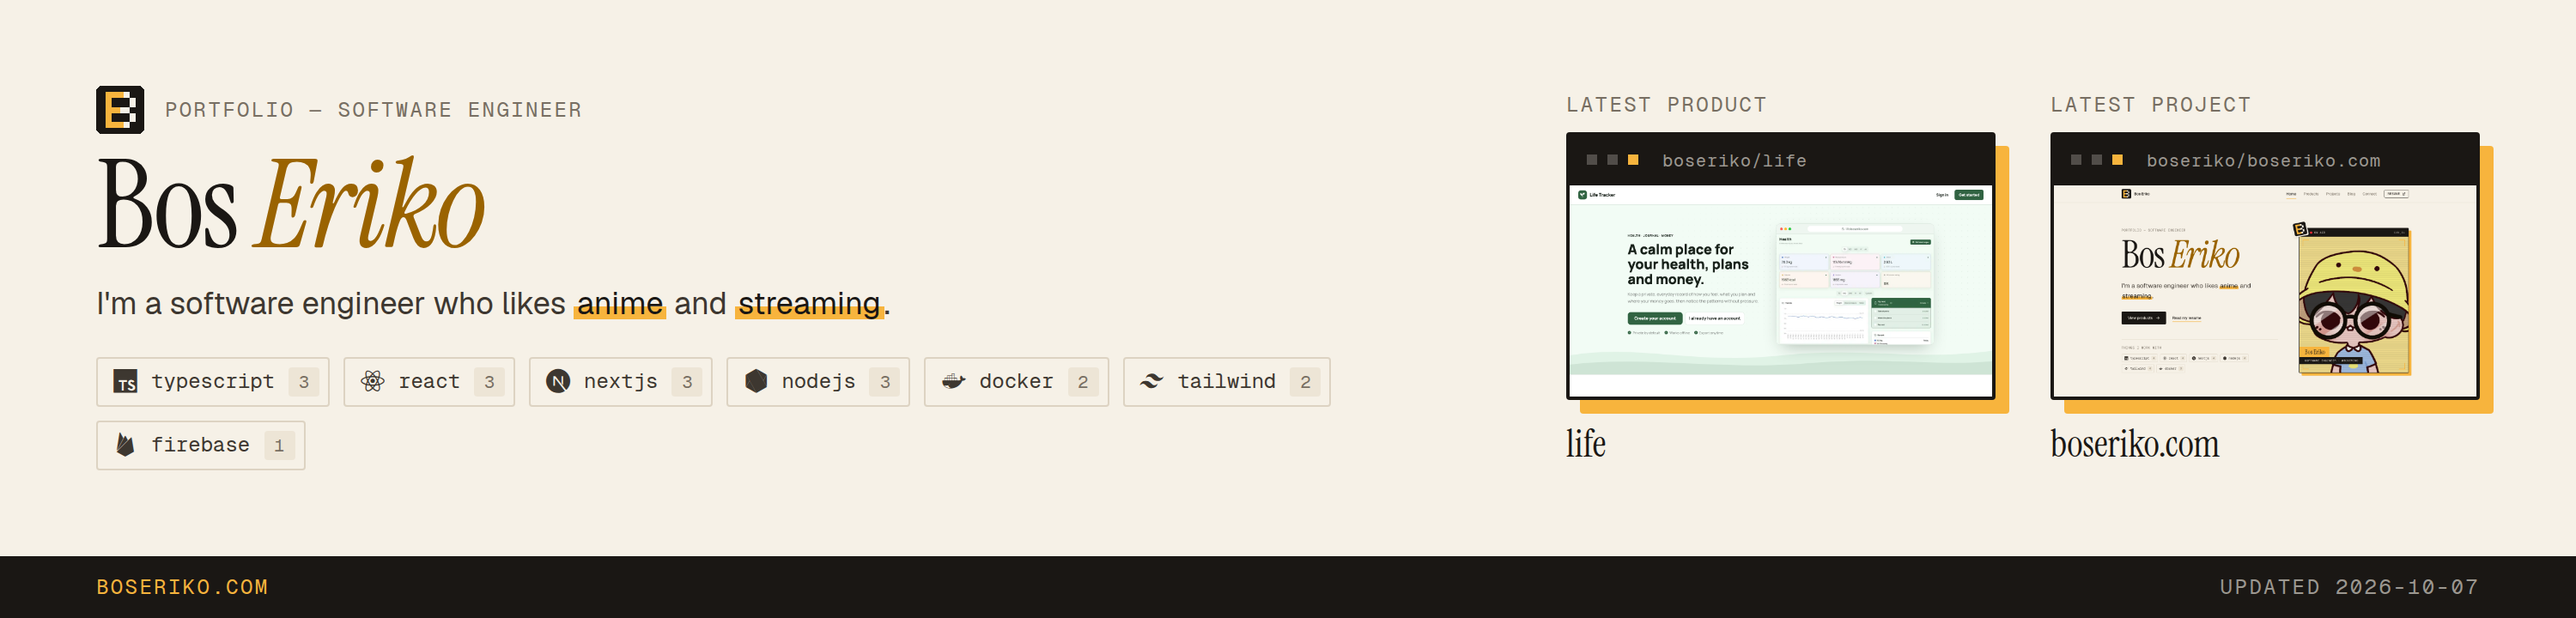
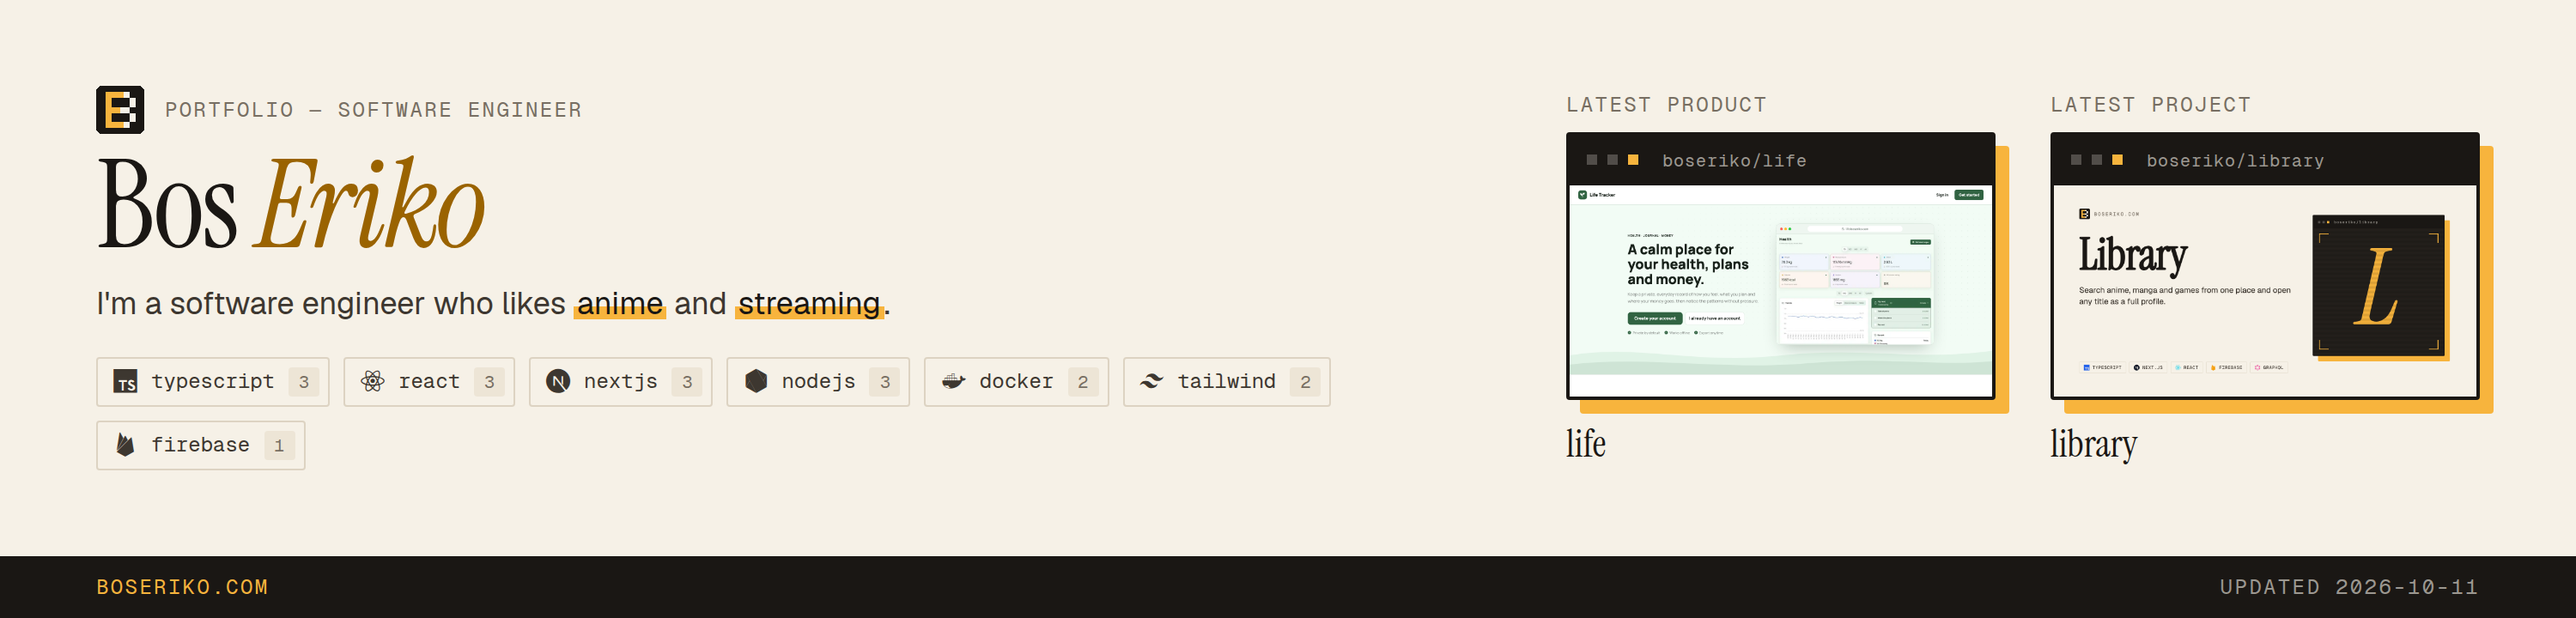
:art: Update information

Changed region(s): [[0.806, 0.3361, 0.961, 0.6111], [0.775, 0.7028, 0.868, 0.7639], [0.868, 0.2444, 0.93, 0.275]]

diff --git a/README.md b/README.md
@@ -4,28 +4,64 @@
 
 A software engineer who likes anime and streaming. See everything I build at **[boseriko.com](https://boseriko.com)** or read my **[resume](https://boseriko.com/resume)**.
 
-#### Latest products
+#### Latest work
 
-- **[life](https://github.com/BosEriko/life)** — A private all-in-one app for health, journaling, and personal finance. Track weight, water, food, blood pressure, and habits. Plan your days with notes, recurring tasks, to-dos, and a board. Manage accounts and spending with analytics. Works offline and connects to AI assistants.
-
-#### Latest projects
-
-- **[boseriko.com](https://github.com/BosEriko/boseriko.com)** — Personal website and portfolio of Bos Eriko. Products, projects, and topics are pulled automatically from GitHub. Blog posts come from dev.to. The resume is generated from live data and downloads as a PDF.
-- **[BosEriko.github.io](https://github.com/BosEriko/BosEriko.github.io)** — My personal website, introducing who I am and linking to my work on Behance, Dribbble, CodePen, and GitHub. Built with plain HTML, CSS, and JavaScript, with no frameworks or libraries. It also keeps the first 2016 version of the site as an archive.
-- **[twiswua.com](https://github.com/BosEriko/twiswua.com)** — The official website of TwisWua, a tiger-themed Twitch streamer. Detects when she is live on Twitch. Pulls her weekly schedule from Twitch automatically. Shows a countdown to the next stream. Features her merch and socials.
+<table>
+  <tr>
+    <td width="33%" valign="top">
+      <a href="https://github.com/BosEriko/life"><img src="https://raw.githubusercontent.com/BosEriko/life/main/COVER.png" alt="life" width="100%" /></a>
+      <br /><sub>PRODUCT</sub>
+      <br /><b><a href="https://github.com/BosEriko/life">life</a></b>
+      <br /><sub>A private all-in-one app for health, journaling, and personal finance. Track weight, water, food, blood pressure, and ha…</sub>
+    </td>
+    <td width="33%" valign="top">
+      <a href="https://github.com/BosEriko/library"><img src="https://raw.githubusercontent.com/BosEriko/library/main/COVER.png" alt="library" width="100%" /></a>
+      <br /><sub>PROJECT</sub>
+      <br /><b><a href="https://github.com/BosEriko/library">library</a></b>
+      <br /><sub>Search anime, manga and games from one place and open any title as a full profile. Every result shares the same schema a…</sub>
+    </td>
+    <td width="33%" valign="top">
+      <a href="https://github.com/BosEriko/boseriko.com"><img src="https://raw.githubusercontent.com/BosEriko/boseriko.com/main/COVER.png" alt="boseriko.com" width="100%" /></a>
+      <br /><sub>PROJECT</sub>
+      <br /><b><a href="https://github.com/BosEriko/boseriko.com">boseriko.com</a></b>
+      <br /><sub>Personal website and portfolio of Bos Eriko. Products, projects, and topics are pulled automatically from GitHub. Blog p…</sub>
+    </td>
+  </tr>
+</table>
 
 #### Things I work with
 
-[TypeScript](https://boseriko.com/topic/typescript) (3) · [React](https://boseriko.com/topic/react) (3) · [Next.js](https://boseriko.com/topic/nextjs) (3) · [Node.js](https://boseriko.com/topic/nodejs) (3) · [Docker](https://boseriko.com/topic/docker) (2) · [Tailwind](https://boseriko.com/topic/tailwind) (2) · [Firebase](https://boseriko.com/topic/firebase) (1)
+<p>
+<a href="https://boseriko.com/topic/typescript" title="TypeScript · 3 repositories"><img src="https://cdn.jsdelivr.net/gh/devicons/devicon@v2.17.0/icons/typescript/typescript-plain.svg" alt="TypeScript" width="40" height="40" /></a>&nbsp;&nbsp;
+<a href="https://boseriko.com/topic/react" title="React · 3 repositories"><img src="https://cdn.jsdelivr.net/gh/devicons/devicon@v2.17.0/icons/react/react-original.svg" alt="React" width="40" height="40" /></a>&nbsp;&nbsp;
+<a href="https://boseriko.com/topic/nextjs" title="Next.js · 3 repositories"><img src="https://cdn.jsdelivr.net/gh/devicons/devicon@v2.17.0/icons/nextjs/nextjs-plain.svg" alt="Next.js" width="40" height="40" /></a>&nbsp;&nbsp;
+<a href="https://boseriko.com/topic/nodejs" title="Node.js · 3 repositories"><img src="https://cdn.jsdelivr.net/gh/devicons/devicon@v2.17.0/icons/nodejs/nodejs-plain.svg" alt="Node.js" width="40" height="40" /></a>&nbsp;&nbsp;
+<a href="https://boseriko.com/topic/docker" title="Docker · 2 repositories"><img src="https://cdn.jsdelivr.net/gh/devicons/devicon@v2.17.0/icons/docker/docker-plain.svg" alt="Docker" width="40" height="40" /></a>&nbsp;&nbsp;
+<a href="https://boseriko.com/topic/tailwind" title="Tailwind · 2 repositories"><img src="https://cdn.jsdelivr.net/gh/devicons/devicon@v2.17.0/icons/tailwindcss/tailwindcss-original.svg" alt="Tailwind" width="40" height="40" /></a>&nbsp;&nbsp;
+<a href="https://boseriko.com/topic/firebase" title="Firebase · 1 repository"><img src="https://cdn.jsdelivr.net/gh/devicons/devicon@v2.17.0/icons/firebase/firebase-plain.svg" alt="Firebase" width="40" height="40" /></a>
+</p>
 
 #### Open source
 
-- **npm:** [create-nails](https://www.npmjs.com/package/create-nails) · [core-nails](https://www.npmjs.com/package/core-nails)
-- **RubyGems:** [firebase-verifier](https://rubygems.org/gems/firebase-verifier)
-- **Contributions:** [rstacruz/cheatsheets](https://github.com/rstacruz/cheatsheets/commits?author=BosEriko) · [tldr-pages/tldr](https://github.com/tldr-pages/tldr/commits?author=BosEriko)
+<p>
+<a href="https://www.npmjs.com/package/create-nails"><img src="https://img.shields.io/npm/v/create-nails?style=for-the-badge&logo=npm&label=create-nails&color=1a1714" alt="create-nails" /></a>
+<a href="https://www.npmjs.com/package/core-nails"><img src="https://img.shields.io/npm/v/core-nails?style=for-the-badge&logo=npm&label=core-nails&color=1a1714" alt="core-nails" /></a>
+<a href="https://rubygems.org/gems/firebase-verifier"><img src="https://img.shields.io/gem/v/firebase-verifier?style=for-the-badge&logo=rubygems&label=firebase-verifier&color=1a1714" alt="firebase-verifier" /></a>
+<a href="https://github.com/rstacruz/cheatsheets/commits?author=BosEriko"><img src="https://img.shields.io/badge/rstacruz%2Fcheatsheets-1a1714?style=for-the-badge&logo=github&logoColor=white" alt="rstacruz/cheatsheets" /></a>
+<a href="https://github.com/tldr-pages/tldr/commits?author=BosEriko"><img src="https://img.shields.io/badge/tldr--pages%2Ftldr-1a1714?style=for-the-badge&logo=github&logoColor=white" alt="tldr-pages/tldr" /></a>
+</p>
 
 #### Connect
 
-[LinkedIn](https://www.linkedin.com/in/boseriko) · [YouTube](https://www.youtube.com/@BosEriko) · [TikTok](https://www.tiktok.com/@boseriko) · [Twitch](https://www.twitch.tv/boseriko) · [Twitter](https://x.com/boseriko) · [Facebook](https://www.facebook.com/boseriko) · [Instagram](https://www.instagram.com/boseriko) · [Steam](https://steamcommunity.com/id/BosEriko/)
+<p>
+<a href="https://www.linkedin.com/in/boseriko"><img src="https://img.shields.io/badge/LinkedIn-0a66c2?style=for-the-badge&logo=linkedin&logoColor=white" alt="LinkedIn" /></a>
+<a href="https://www.youtube.com/@BosEriko"><img src="https://img.shields.io/badge/YouTube-ff0000?style=for-the-badge&logo=youtube&logoColor=white" alt="YouTube" /></a>
+<a href="https://www.tiktok.com/@boseriko"><img src="https://img.shields.io/badge/TikTok-010101?style=for-the-badge&logo=tiktok&logoColor=white" alt="TikTok" /></a>
+<a href="https://www.twitch.tv/boseriko"><img src="https://img.shields.io/badge/Twitch-9146ff?style=for-the-badge&logo=twitch&logoColor=white" alt="Twitch" /></a>
+<a href="https://x.com/boseriko"><img src="https://img.shields.io/badge/Twitter-000000?style=for-the-badge&logo=x&logoColor=white" alt="Twitter" /></a>
+<a href="https://www.facebook.com/boseriko"><img src="https://img.shields.io/badge/Facebook-1877f2?style=for-the-badge&logo=facebook&logoColor=white" alt="Facebook" /></a>
+<a href="https://www.instagram.com/boseriko"><img src="https://img.shields.io/badge/Instagram-e1306c?style=for-the-badge&logo=instagram&logoColor=white" alt="Instagram" /></a>
+<a href="https://steamcommunity.com/id/BosEriko/"><img src="https://img.shields.io/badge/Steam-00adee?style=for-the-badge&logo=steam&logoColor=white" alt="Steam" /></a>
+</p>
 
-<sub>Updated weekly by GitHub Actions · 2026-10-07</sub>
+<sub>Updated weekly by GitHub Actions · 2026-10-11</sub>
